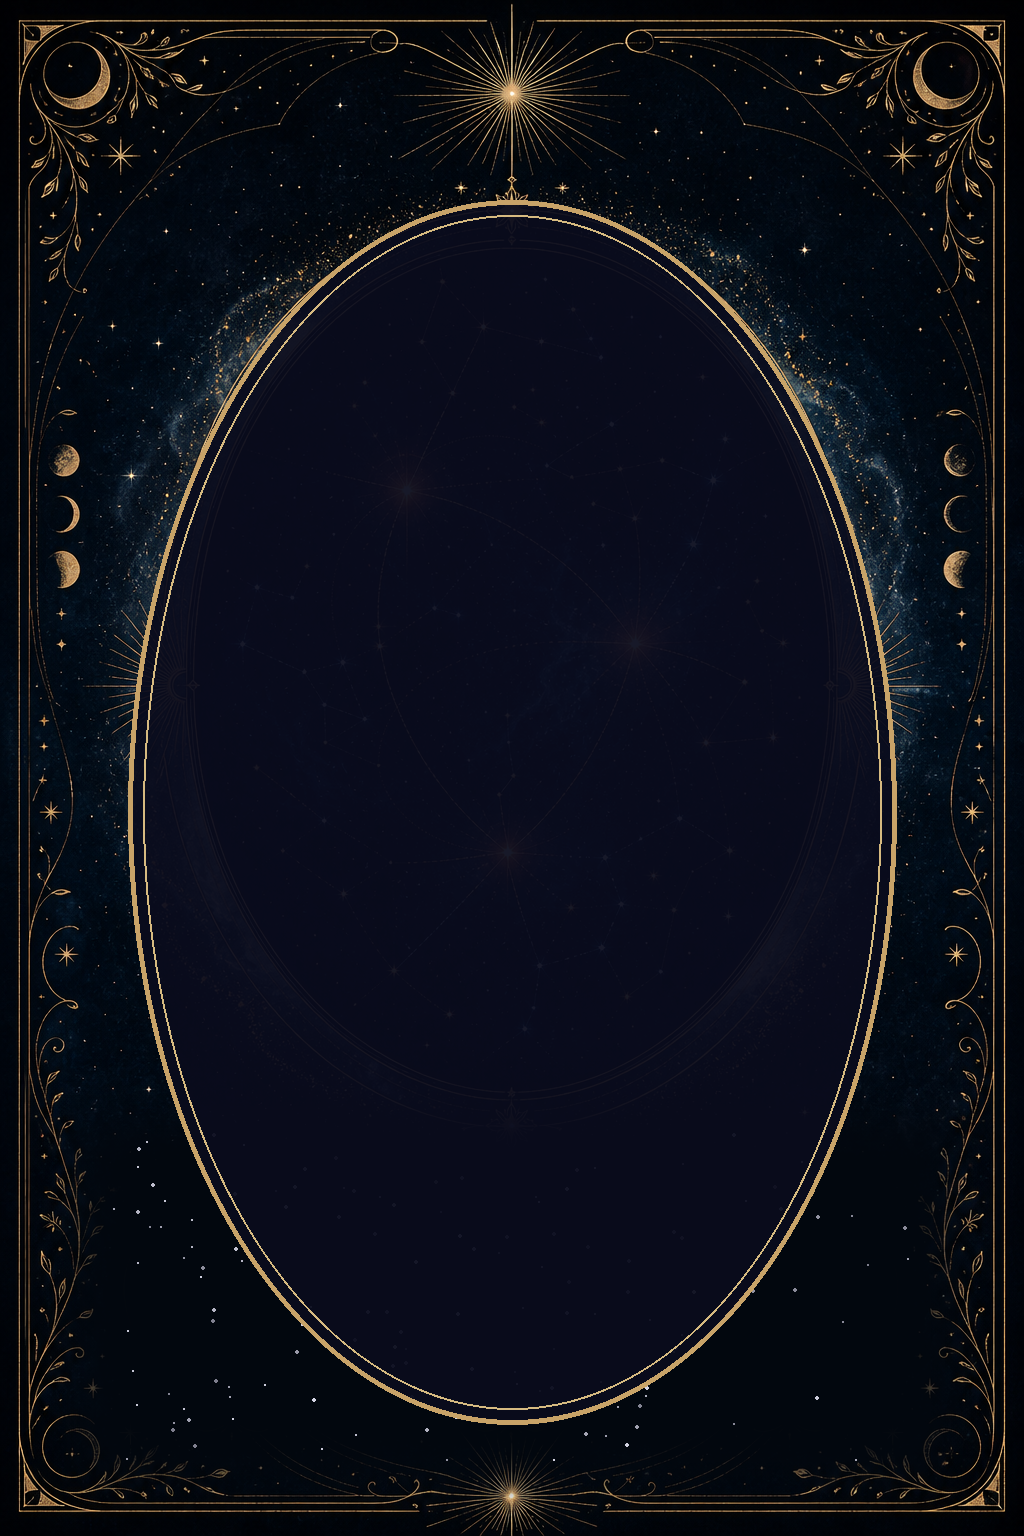
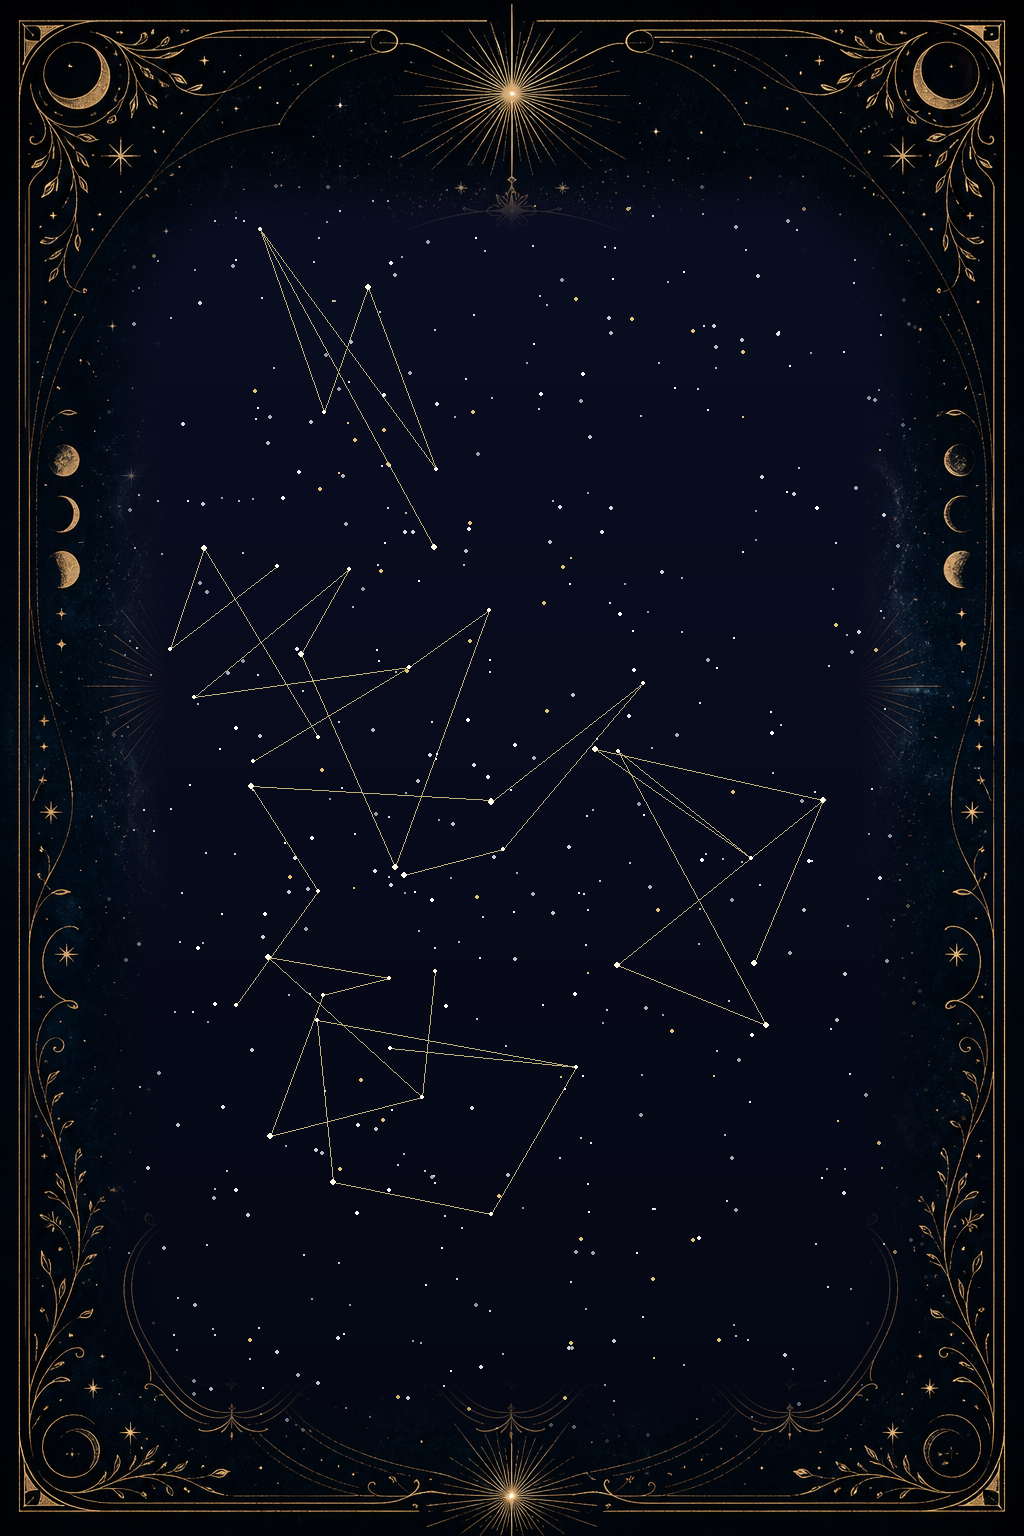
Kart: oval kaldirildi, koyu yildiz zemini, altin yazi, kelime kelime animasyon

diff --git a/harita3d_demo.html b/harita3d_demo.html
@@ -376,28 +376,39 @@ function initStardust(){for(const sp of sdust){const a=Math.random()*6.28,r=Math
 // ---- altin cerceveli 3B yorum paneli ----
 function rr(x,a,b,w,h,r){x.beginPath();x.moveTo(a+r,b);x.arcTo(a+w,b,a+w,b+h,r);x.arcTo(a+w,b+h,a,b+h,r);x.arcTo(a,b+h,a,b,r);x.arcTo(a,b,a+w,b,r);x.closePath();}
 function wrap(x,txt,px,py,maxw,lh){const words=txt.split(' ');let line='',yy=py;for(const wd of words){const t=line+wd+' ';if(x.measureText(t).width>maxw&&line){x.fillText(line.trim(),px,yy);line=wd+' ';yy+=lh;}else line=t;}x.fillText(line.trim(),px,yy);return yy;}
-const cardImg=new Image(); cardImg.src='card_panel.png?v=3'; let cardReady=false; cardImg.onload=()=>{cardReady=true;};
-function panelTex(k){const w=1024,h=1536,cv=document.createElement('canvas');cv.width=w;cv.height=h;const x=cv.getContext('2d');
-if(cardReady)x.drawImage(cardImg,0,0,w,h); else {x.fillStyle='#0a0a18';x.fillRect(0,0,w,h);}
+const cardImg=new Image(); cardImg.src='card_panel.png?v=4'; let cardReady=false; cardImg.onload=()=>{cardReady=true;};
+function buildPanel(k){
+const cv=document.createElement('canvas');cv.width=1024;cv.height=1536;const cx=cv.getContext('2d');
+const bg=document.createElement('canvas');bg.width=1024;bg.height=1536;const bt=bg.getContext('2d');
+if(cardReady)bt.drawImage(cardImg,0,0,1024,1536);else{bt.fillStyle='#0a0a18';bt.fillRect(0,0,1024,1536);}
 const CX=512;
-x.textAlign='center';
-x.fillStyle='#f0d9a0';x.font='76px Georgia';x.fillText(PGLYPH[k]||'✦',CX,314);
-x.fillStyle='#f4ebd2';x.font='60px Georgia';x.fillText(NAMES[k]||k,CX,388);
-x.fillStyle='#c6afe8';x.font='29px Georgia';x.fillText((P[k].sign||'').toLocaleUpperCase('tr')+'  ·  '+houseOf(P[k].lon)+'. EV  ·  '+(GLYPH[P[k].sign]||''),CX,430);
-x.strokeStyle='rgba(214,186,128,0.55)';x.lineWidth=2;x.beginPath();x.moveTo(CX-150,458);x.lineTo(CX+150,458);x.stroke();
-// --- yorum: ovale sigacak sekilde OTOMATIK punto ---
-const bx=CX-232, bw=464, topY=502, maxY=1298; const paras=(INTERP[k]||'').split('\n\n');
-function countLines(fs){x.font='italic '+fs+'px Georgia';let n=0;for(const p of paras){const words=p.trim().split(' ');let line='';let ln=1;for(const wd of words){const t=line+wd+' ';if(x.measureText(t).width>bw&&line){ln++;line=wd+' ';}else line=t;}n+=ln;}return n;}
-let fs=31,lh=40,gap=20;
-for(fs=31;fs>=21;fs--){lh=Math.round(fs*1.3);gap=Math.round(fs*0.62);if(topY+countLines(fs)*lh+(paras.length-1)*gap<=maxY)break;}
-x.textAlign='left';x.fillStyle='#eae1cc';x.font='italic '+fs+'px Georgia';
-let yy=topY;for(const p of paras){yy=wrap(x,p.trim(),bx,yy,bw,lh)+gap;}
-return new THREE.CanvasTexture(cv);}
+bt.textAlign='center';
+bt.fillStyle='#f0d9a0';bt.font='78px Georgia';bt.fillText(PGLYPH[k]||'✦',CX,336);
+bt.fillStyle='#f5ecd6';bt.font='62px Georgia';bt.fillText(NAMES[k]||k,CX,414);
+bt.fillStyle='#cdb26e';bt.font='30px Georgia';bt.fillText((P[k].sign||'').toLocaleUpperCase('tr')+'  \u00b7  '+houseOf(P[k].lon)+'. EV  \u00b7  '+(GLYPH[P[k].sign]||''),CX,460);
+bt.strokeStyle='rgba(214,186,128,0.5)';bt.lineWidth=2;bt.beginPath();bt.moveTo(CX-175,490);bt.lineTo(CX+175,490);bt.stroke();
+const bx=172,bw=680,topY=548,maxY=1388;const paras=(INTERP[k]||'').split('\n\n');
+function cl(fs){cx.font='italic '+fs+'px Georgia';let n=0;for(const p of paras){const ws=p.trim().split(' ');let line='';let ln=1;for(const wd of ws){const t=line+wd+' ';if(cx.measureText(t).width>bw&&line){ln++;line=wd+' ';}else line=t;}n+=ln;}return n;}
+let fs=44,lh=54,gap=20;
+for(fs=44;fs>=25;fs--){lh=Math.round(fs*1.32);gap=Math.round(fs*0.5);if(topY+cl(fs)*lh+(paras.length-1)*gap<=maxY)break;}
+cx.font='italic '+fs+'px Georgia';const words=[];let yy=topY;
+for(const p of paras){const ws=p.trim().split(' ');let line='';let lw=[];
+const flush=()=>{let wx=bx;for(const wd of lw){words.push({s:wd,x:wx,y:yy});wx+=cx.measureText(wd+' ').width;}yy+=lh;};
+for(const wd of ws){const t=line+wd+' ';if(cx.measureText(t).width>bw&&line){flush();line=wd+' ';lw=[wd];}else{line=t;lw.push(wd);}}
+flush();yy+=gap;}
+const tex=new THREE.CanvasTexture(cv);
+return {cv,cx,bg,tex,words,fs,total:words.length,shown:-1,t0:t+0.45};
+}
+function drawReveal(ps,count){if(count===ps.shown)return;ps.shown=count;
+ps.cx.clearRect(0,0,1024,1536);ps.cx.drawImage(ps.bg,0,0);
+ps.cx.textAlign='left';ps.cx.fillStyle='#e9c86e';ps.cx.font='italic '+ps.fs+'px Georgia';
+for(let i=0;i<count&&i<ps.total;i++){const wd=ps.words[i];ps.cx.fillText(wd.s,wd.x,wd.y);}
+ps.tex.needsUpdate=true;}
 const panel=new THREE.Group(); panel.visible=false; scene.add(panel);
 const panelPlane=new THREE.Mesh(new THREE.PlaneGeometry(5.2,7.8),new THREE.MeshBasicMaterial({transparent:true,depthWrite:false,depthTest:false,opacity:0}));
 panel.add(panelPlane); panel.renderOrder=30;
-let panelKey=null;
-function showPanel(k){if(panelKey!==k){if(panelPlane.material.map)panelPlane.material.map.dispose();panelPlane.material.map=panelTex(k);panelPlane.material.needsUpdate=true;panelKey=k;}}
+let panelState=null;
+function showPanel(k){if(panelPlane.material.map)panelPlane.material.map.dispose();panelState=buildPanel(k);panelPlane.material.map=panelState.tex;panelPlane.material.needsUpdate=true;}
 // ---- Sahne 11: dokunma ile secim ----
 const raycaster=new THREE.Raycaster(); const ptr=new THREE.Vector2();
 let selected=null; let reparented=false;
@@ -423,8 +434,9 @@ n.core.material.opacity=n.open*0.9; n.core.scale.setScalar(n.sz*(2.4+n.open*1.8)
 if(n.signSprite){n.signSprite.material.color.setHex(0xffe08a); n.signSprite.material.opacity=0.5+0.4*Math.sin(t*4+n.lon);}
 }
 if(selected){panel.visible=true; _panP.set(0,CIRCLE_C.y-0.55,CIRCLE_C.z+1.3); panel.position.lerp(_panP,0.16); panel.quaternion.copy(camera.quaternion);
-panelPlane.material.opacity+=(1-panelPlane.material.opacity)*0.16;}
-else{panelPlane.material.opacity+=(0-panelPlane.material.opacity)*0.2; if(panelPlane.material.opacity<0.02)panel.visible=false;}
+panelPlane.material.opacity+=(1-panelPlane.material.opacity)*0.16;
+if(panelState){const rt=t-panelState.t0;const cnt=Math.floor(panelState.total*clamp01(rt/5.0));drawReveal(panelState,Math.max(0,cnt));}}
+else{panelPlane.material.opacity+=(0-panelPlane.material.opacity)*0.2; if(panelPlane.material.opacity<0.02){panel.visible=false;panelState=null;}}
 }
 function enterInteractive(){story.free=true;controls.enabled=true;controls.enableRotate=true;controls.enableZoom=true;controls.enablePan=false;controls.autoRotate=false;controls.minDistance=3.5;controls.maxDistance=60;controls.target.copy(CIRCLE_C);camera.position.copy(CAM_D);camera.fov=FOV_D;camera.updateProjectionMatrix();controls.update();}
 // dokunma: surukleme (dondur) ile tik (sec) ayirt et